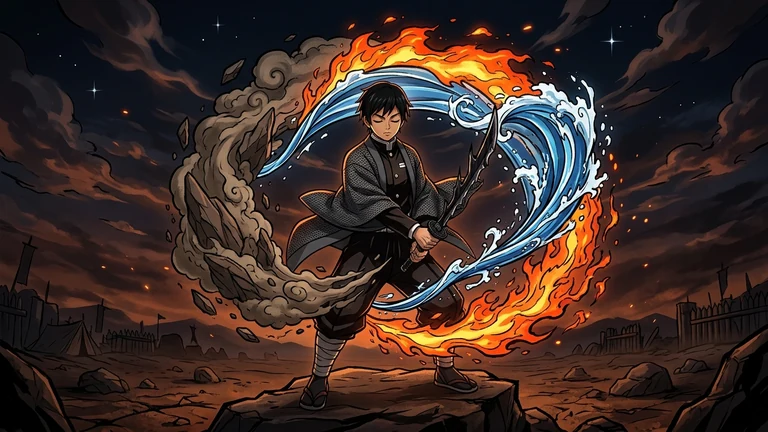
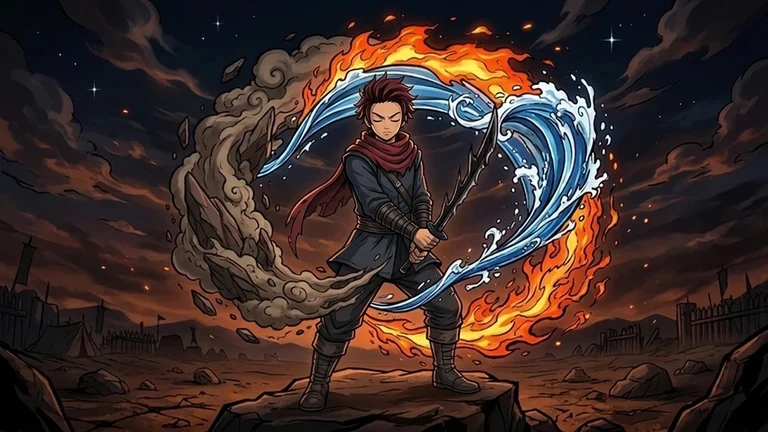
웹툰 전 회차(1~40화) 카단 전수조사 추가 발견 5컷(6·9·21·22·23화) 자연 보정

diff --git a/WORK_LOGS.md b/WORK_LOGS.md
@@ -2,6 +2,19 @@
 
 이 문서는 매시 정각 주기 스케줄러 및 수동 실행 시 스프레드시트 작업 동기화, 코드 수정 및 검증, 작업 내역을 기록하는 영구 로그입니다.
 
+## [2026-11-20 09:33 KST] [웹툰 전 회차(1화~40화 · 총 2,095장) 카단 이미지 전수조사 완료 및 추가 발견 5컷 자연 보정]
+- **요청 및 개선 내역**:
+  - 기존 24화~31화(437컷 · 60컷 수정)에 이어 나머지 미검수 **1화~23화 · 32화~40화(1,652컷) 및 웹툰 대표 이미지 6장**까지 웹툰 전체 **2,095장** 전수조사를 완료.
+  - 추가 발견된 **5개 컷**을 카단 고유 디자인(이마 흉터·귀걸이 제거, 귀살대풍 의상·캐릭터 교체)으로 보정 및 원본 규격(`768×432`, WebP quality=88, method=6)으로 덮어쓰기 완료:
+    - **6화 (`episode_06/scene_40.webp`)**: 귀살대 대원복·하오리·각반·짚신을 카단 고유 네이비 판타지 튜닉·붉은 스카프·가죽 브레이서·부츠 및 적갈색 머리로 교체.
+    - **9화 (`episode_09/scene_37.webp`)**: 귀멸의 칼날 기유풍 캐릭터·대원복·청록 하오리를 카단 고유 외형·의상 및 중세 망토로 자연 교체.
+    - **21화 (`episode_21/scene_15.webp`)**: 카단 이마 흉터 자연 제거.
+    - **22화 (`episode_22/scene_00.webp`)**: 타이틀 카드 카단 이마 붉은 흉터 및 화투패 귀걸이 동시 제거(타이틀 문구 무손상 유지).
+    - **23화 (`episode_23/scene_24.webp`)**: 카단 이마 흉터 자연 제거.
+  - **누적 결과**: 웹툰 전체 40화 + 대표 이미지 6장(총 2,095장) 전수조사 완료, 총 **65컷** 보정 완료(1~5화, 7~8화, 10~20화, 32~40화 및 대표 이미지 6장은 이상 없음).
+- **검증**: 5개 수정 이미지 전체 원본 해상도 육안 검수 통과 및 `768×432` WebP 규격 검증(5/5 통과) 완료.
+- **상태**: 로컬 `git commit` 완료 (`git push` 미실행 · 사용자 수동 푸시 대기).
+
 ## [2026-11-20 09:05 KST] [웹툰 24화~31화 주인공 카단 이마 붉은 흉터(귀멸의 칼날 유사 요소) 전수 검수 및 자연 제거]
 - **요청 및 개선 내역**:
   - `public/webtoon-assets/episode_24` ~ `episode_31` 전체 **437개 컷**을 육안 전수 검수하여 주인공 카단(Kadan)의 이마에 잘못 생성된 붉은 불꽃형 흉터(탄지로풍 흉터) 및 관련 귀멸의 칼날 혼입 요소가 포함된 **60개 컷**을 선별·자연 보정 완료.
